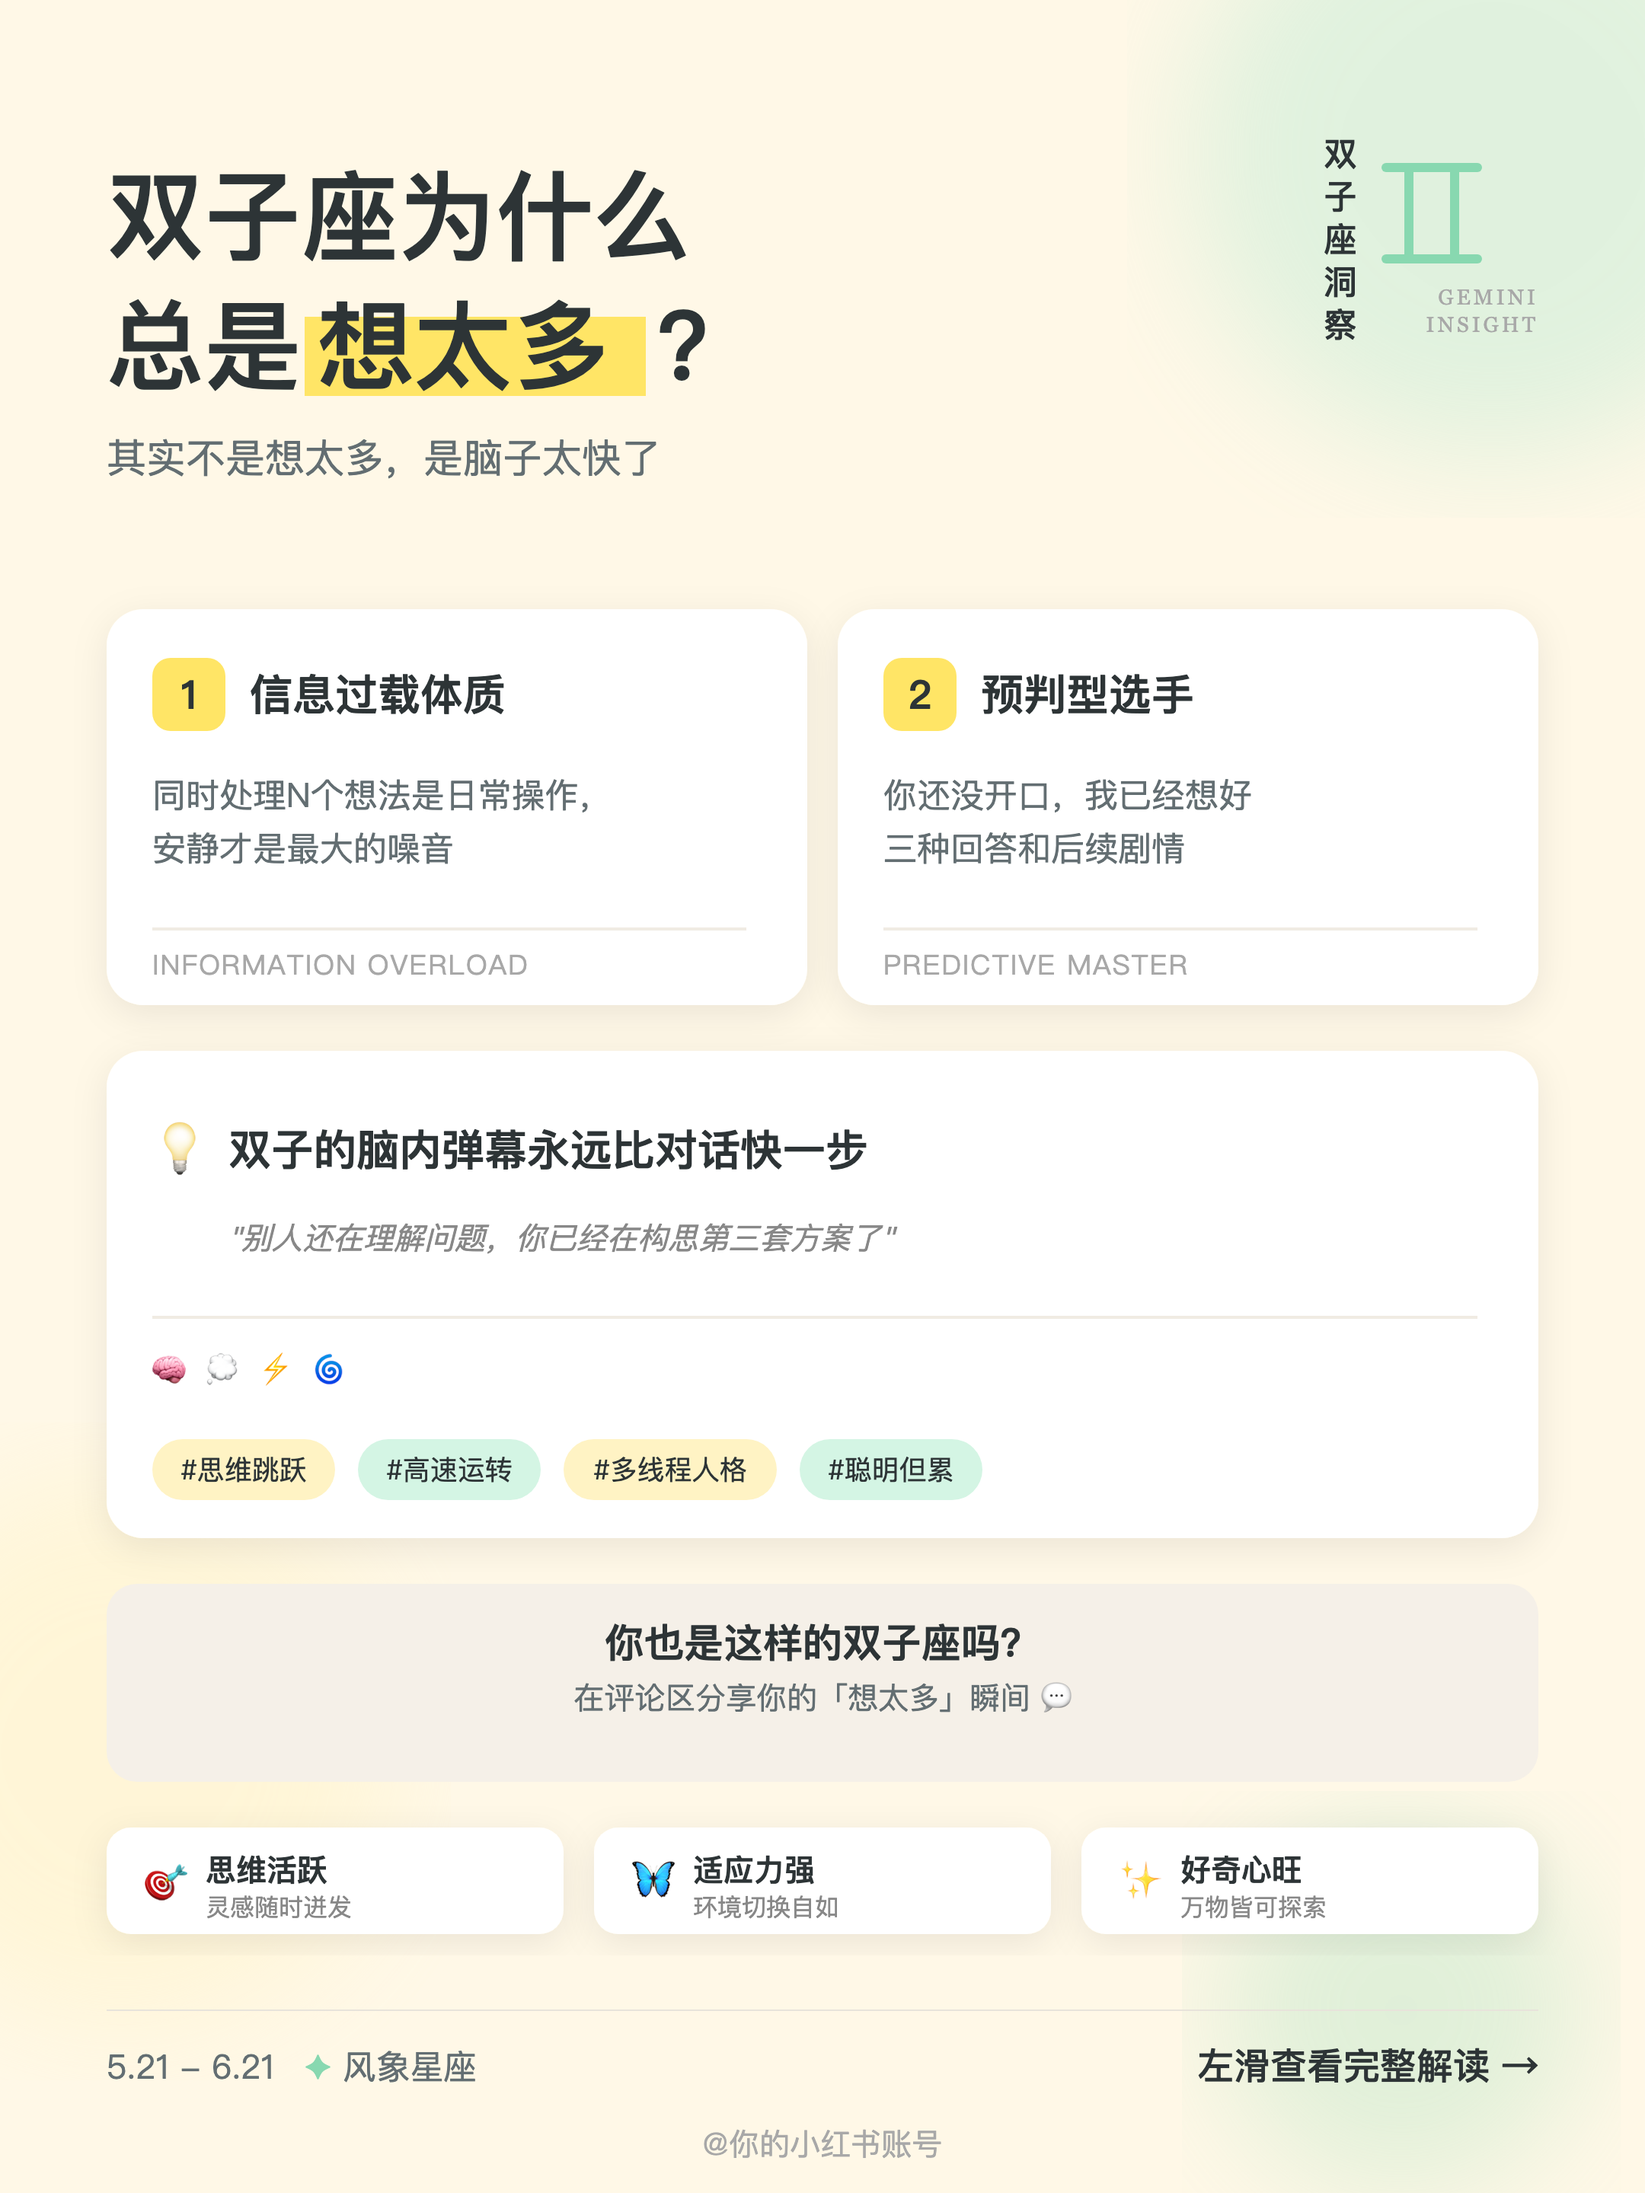
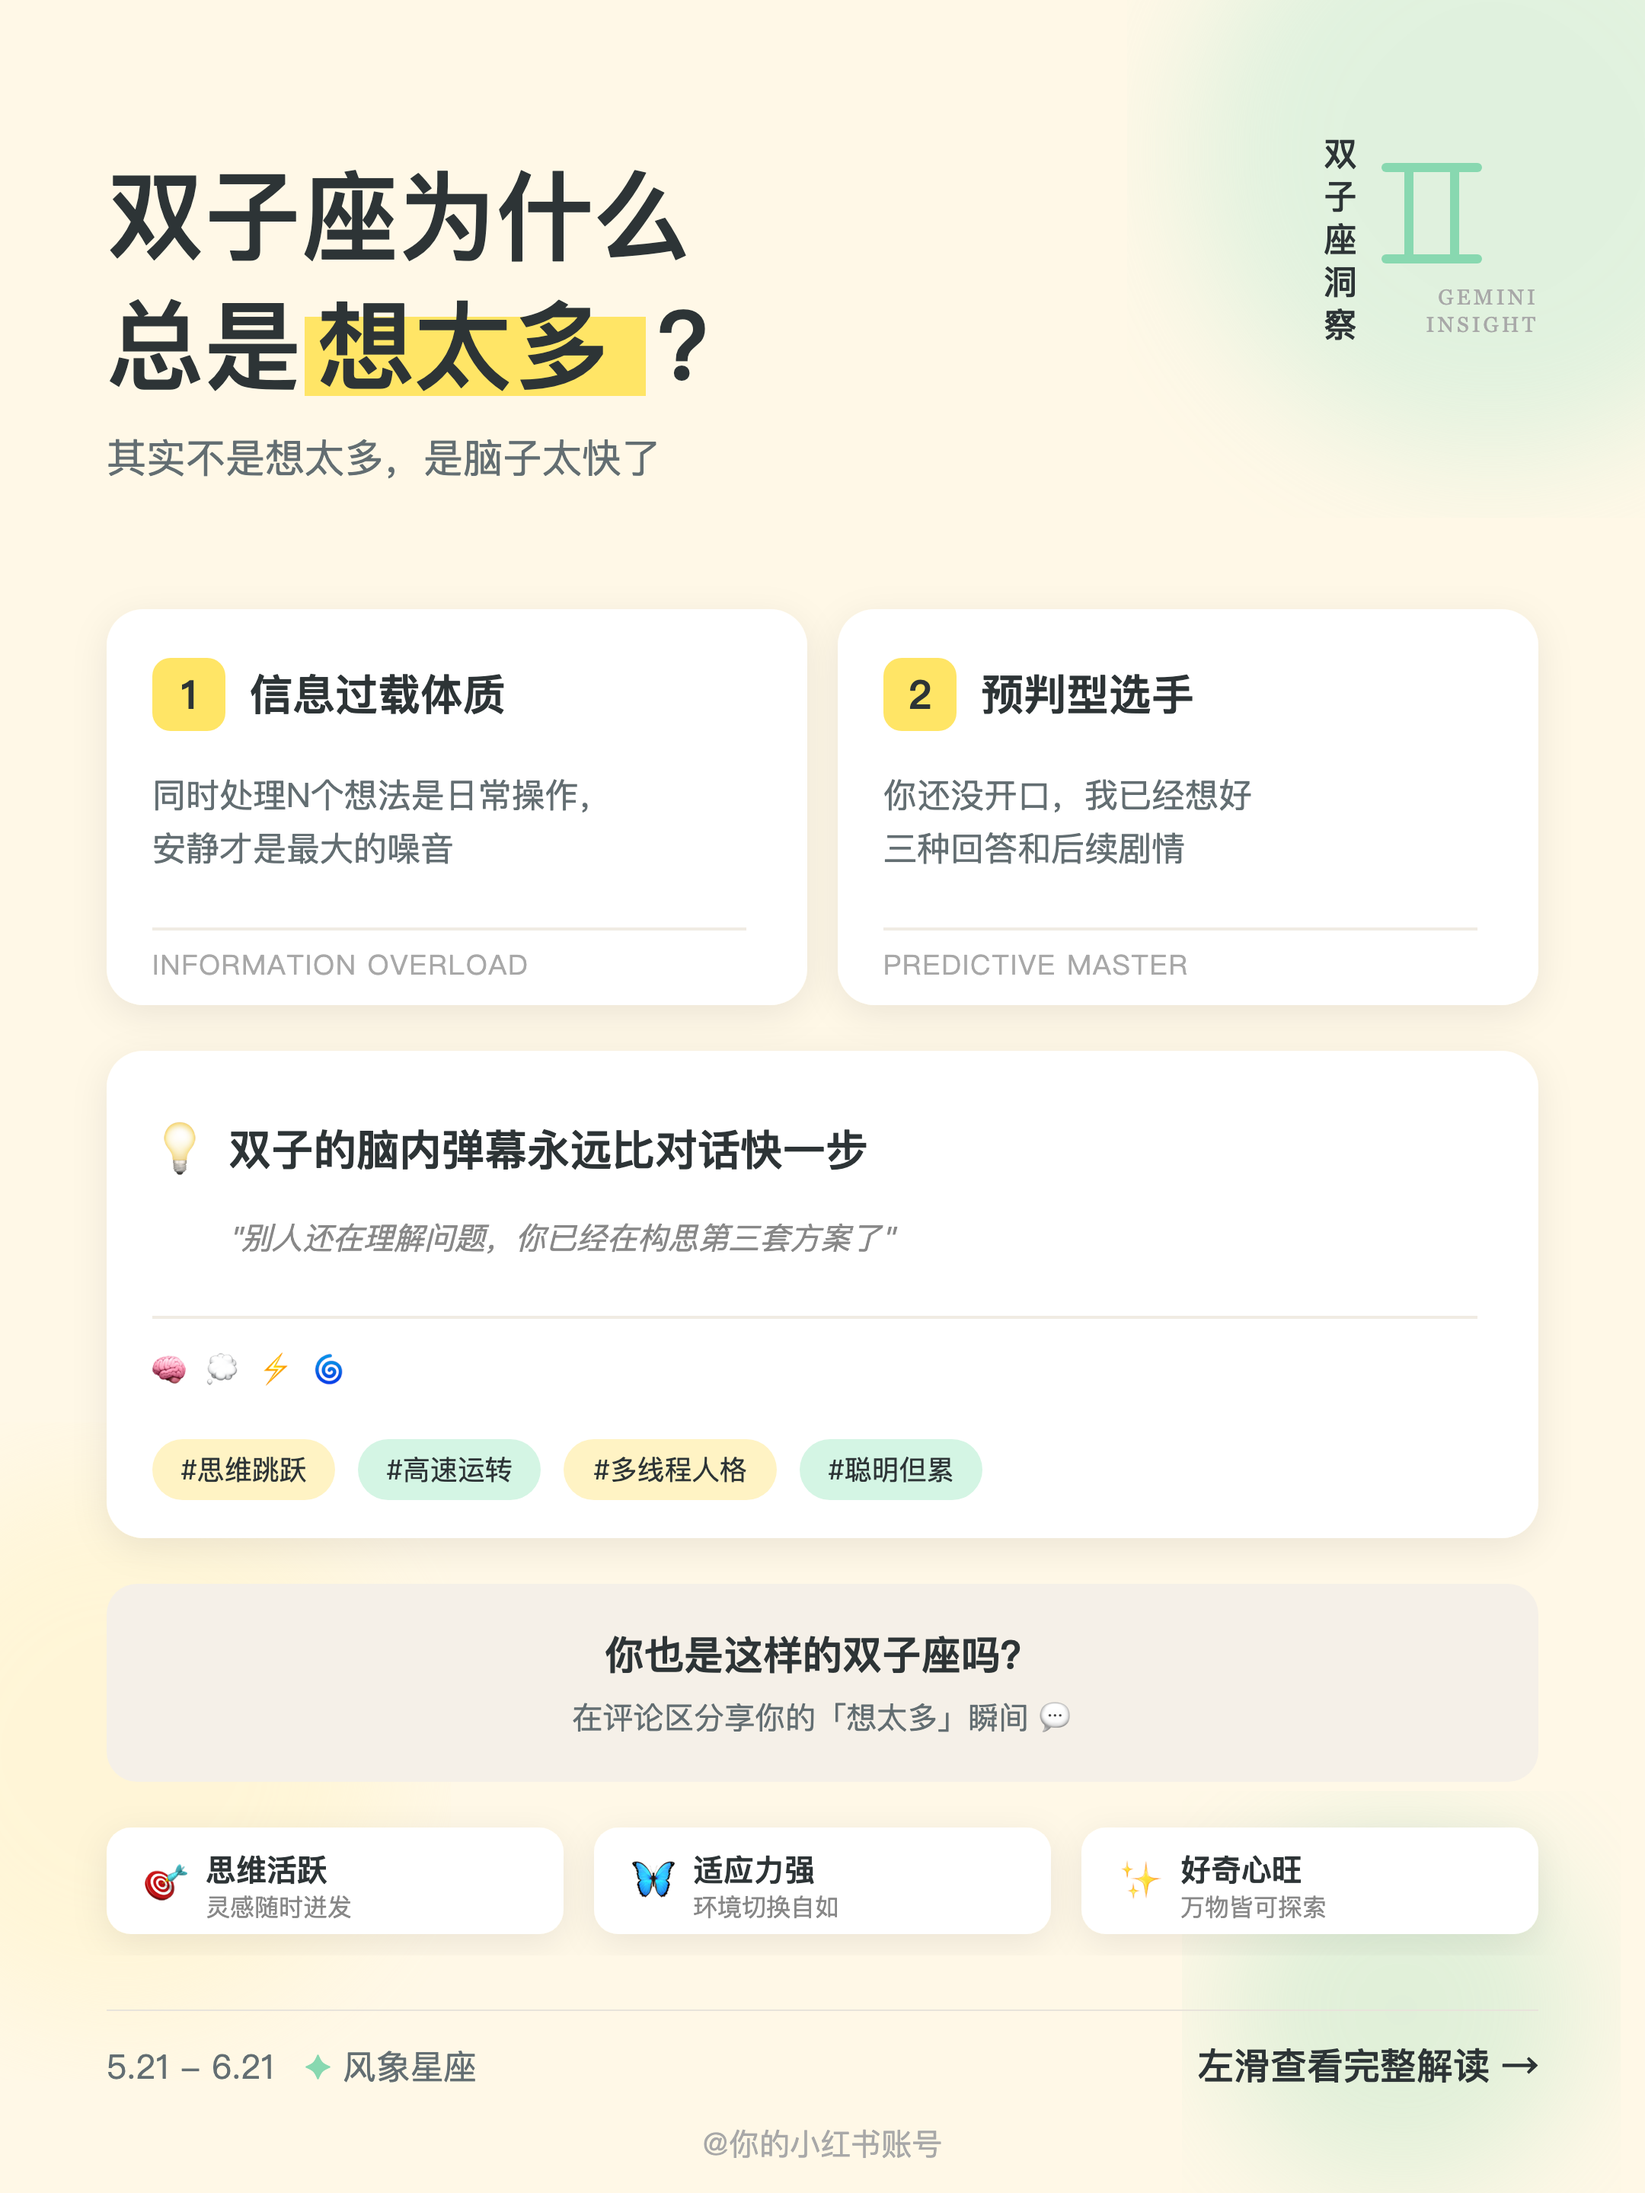
双子座为什么想太多的文字是否稍微向上移动一点点比较好。 ultrathink
🤖 Auto-backup by Claude Code

Changed region(s): [[0.3412, 0.7188, 0.6514, 0.8125]]

diff --git a/skills/zodiac-poster/assets/templates/fresh-insight/examples/01_cover.html b/skills/zodiac-poster/assets/templates/fresh-insight/examples/01_cover.html
@@ -129,9 +129,13 @@
   <!-- ==================== 互动引导区 ==================== -->
   <rect x="70" y="1040" width="940" height="130" rx="20" fill="#F5F0E8"/>
 
-  <!-- 互动问题（垂直居中：矩形中心y=1105，两行文字整体居中） -->
-  <text x="540" y="1088" font-family="PingFang SC, Microsoft YaHei, sans-serif" font-size="26" font-weight="600" fill="#2D3436" text-anchor="middle">你也是这样的双子座吗？</text>
-  <text x="540" y="1122" font-family="PingFang SC, Microsoft YaHei, sans-serif" font-size="20" fill="#636E72" text-anchor="middle">在评论区分享你的「想太多」瞬间 💬</text>
+  <!-- 使用 foreignObject + flexbox 实现真正的垂直水平居中 -->
+  <foreignObject x="70" y="1040" width="940" height="130">
+    <div xmlns="http://www.w3.org/1999/xhtml" style="width: 100%; height: 100%; display: flex; flex-direction: column; justify-content: center; align-items: center;">
+      <div style="font-family: 'PingFang SC', 'Microsoft YaHei', sans-serif; font-size: 26px; font-weight: 600; color: #2D3436; margin-bottom: 8px;">你也是这样的双子座吗？</div>
+      <div style="font-family: 'PingFang SC', 'Microsoft YaHei', sans-serif; font-size: 20px; color: #636E72;">在评论区分享你的「想太多」瞬间 💬</div>
+    </div>
+  </foreignObject>
 
   <!-- ==================== 双子特质横排 ==================== -->
   <g transform="translate(70, 1200)">
